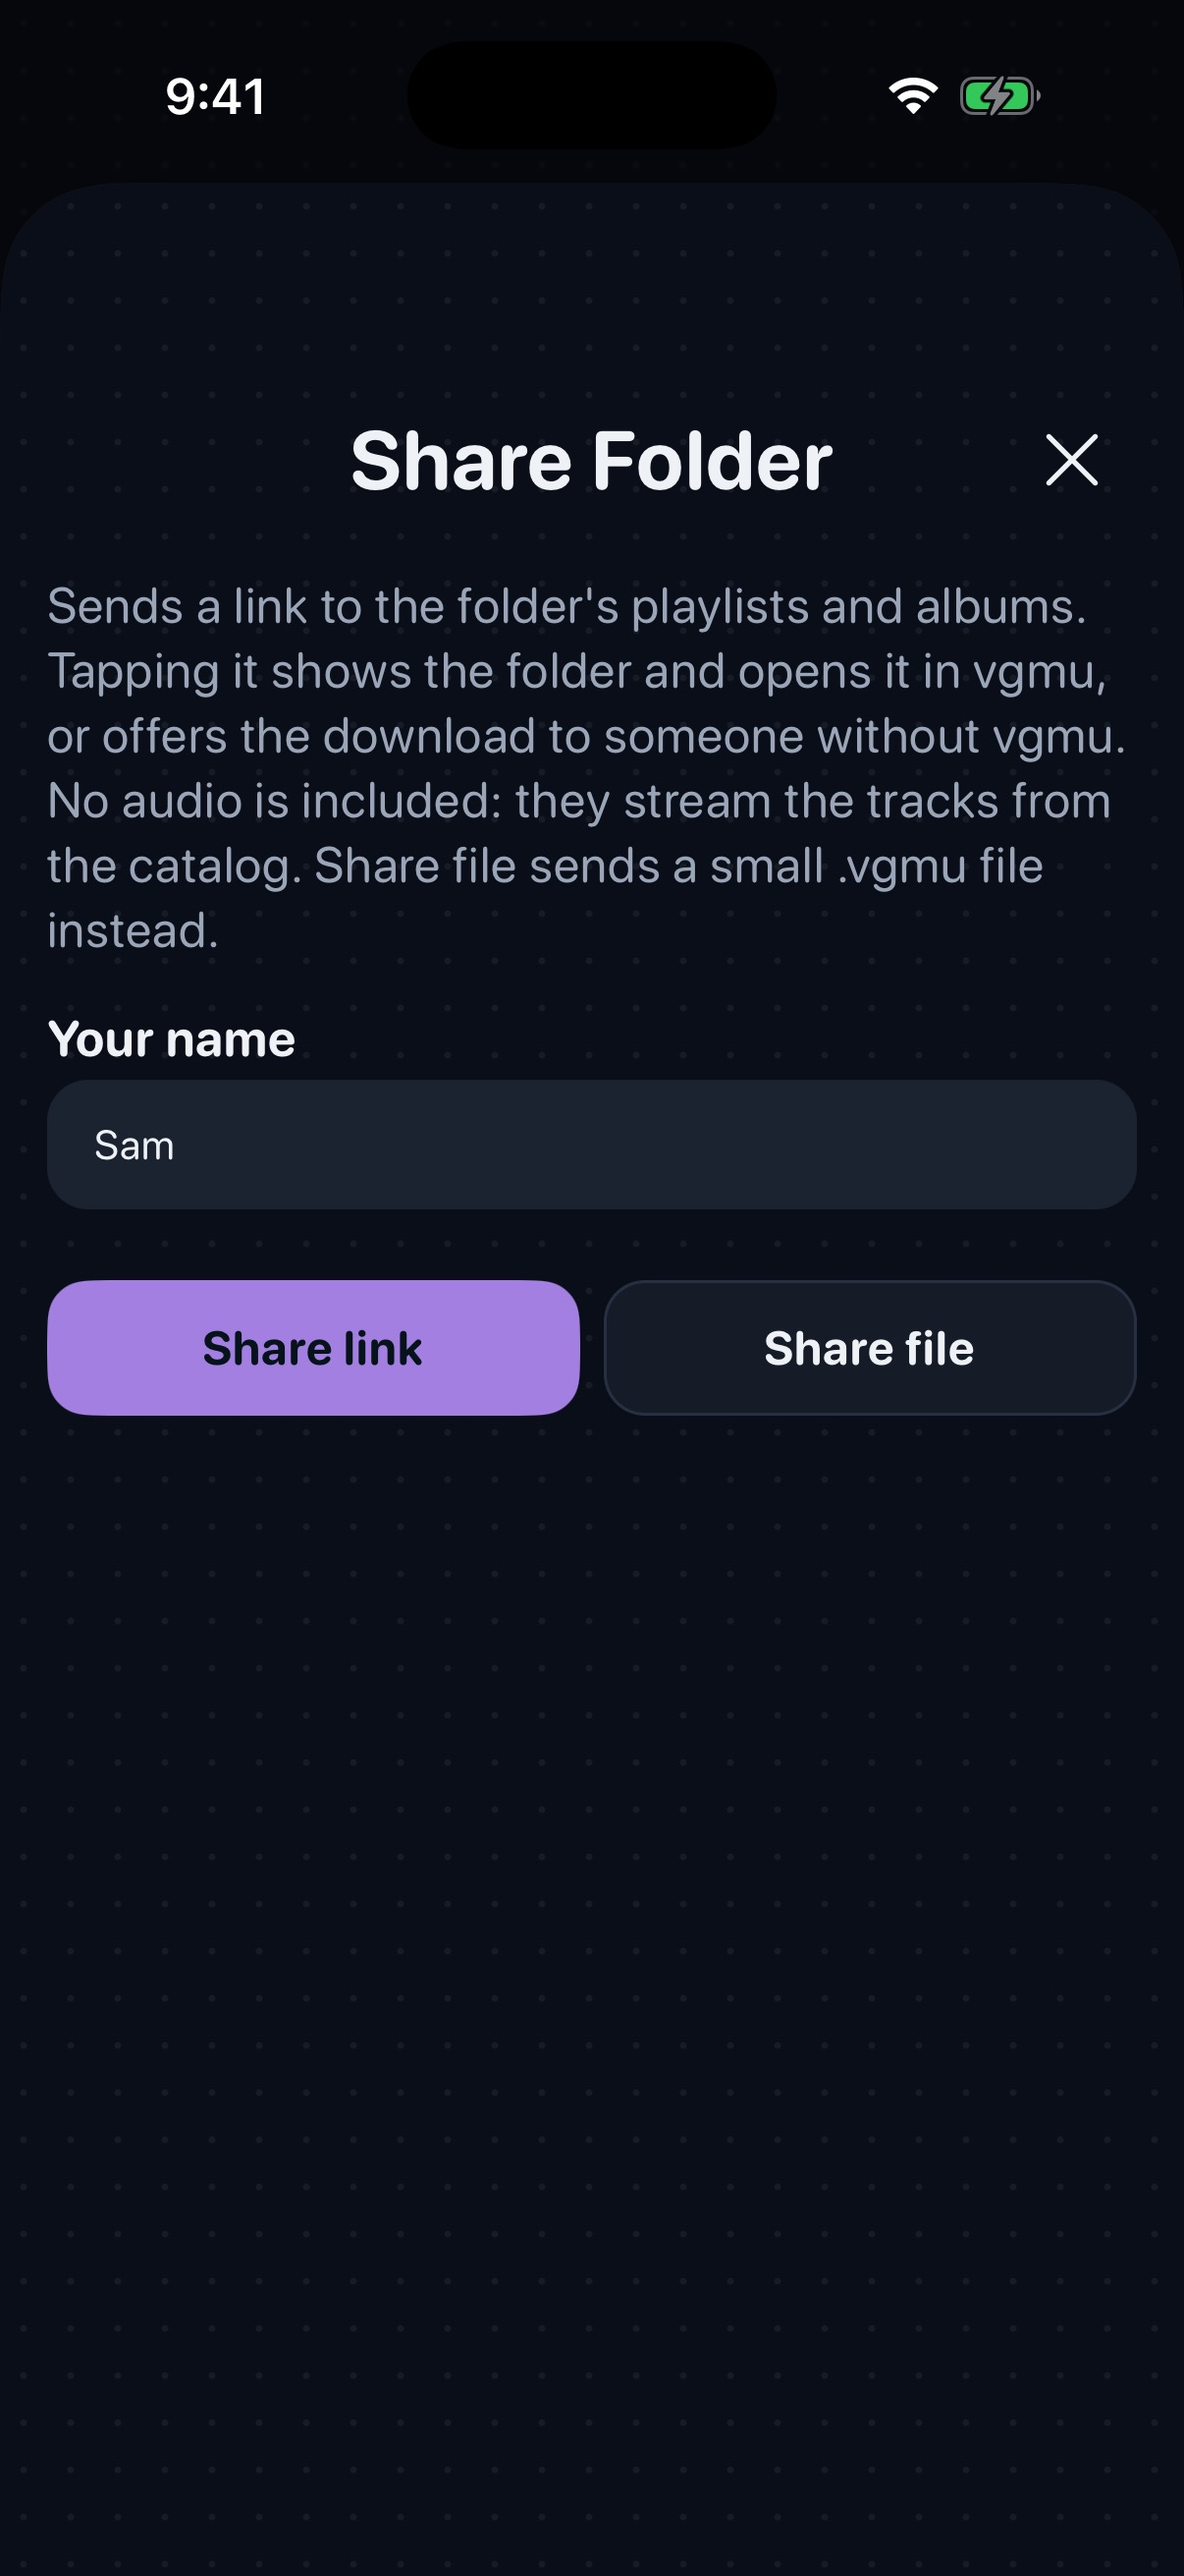
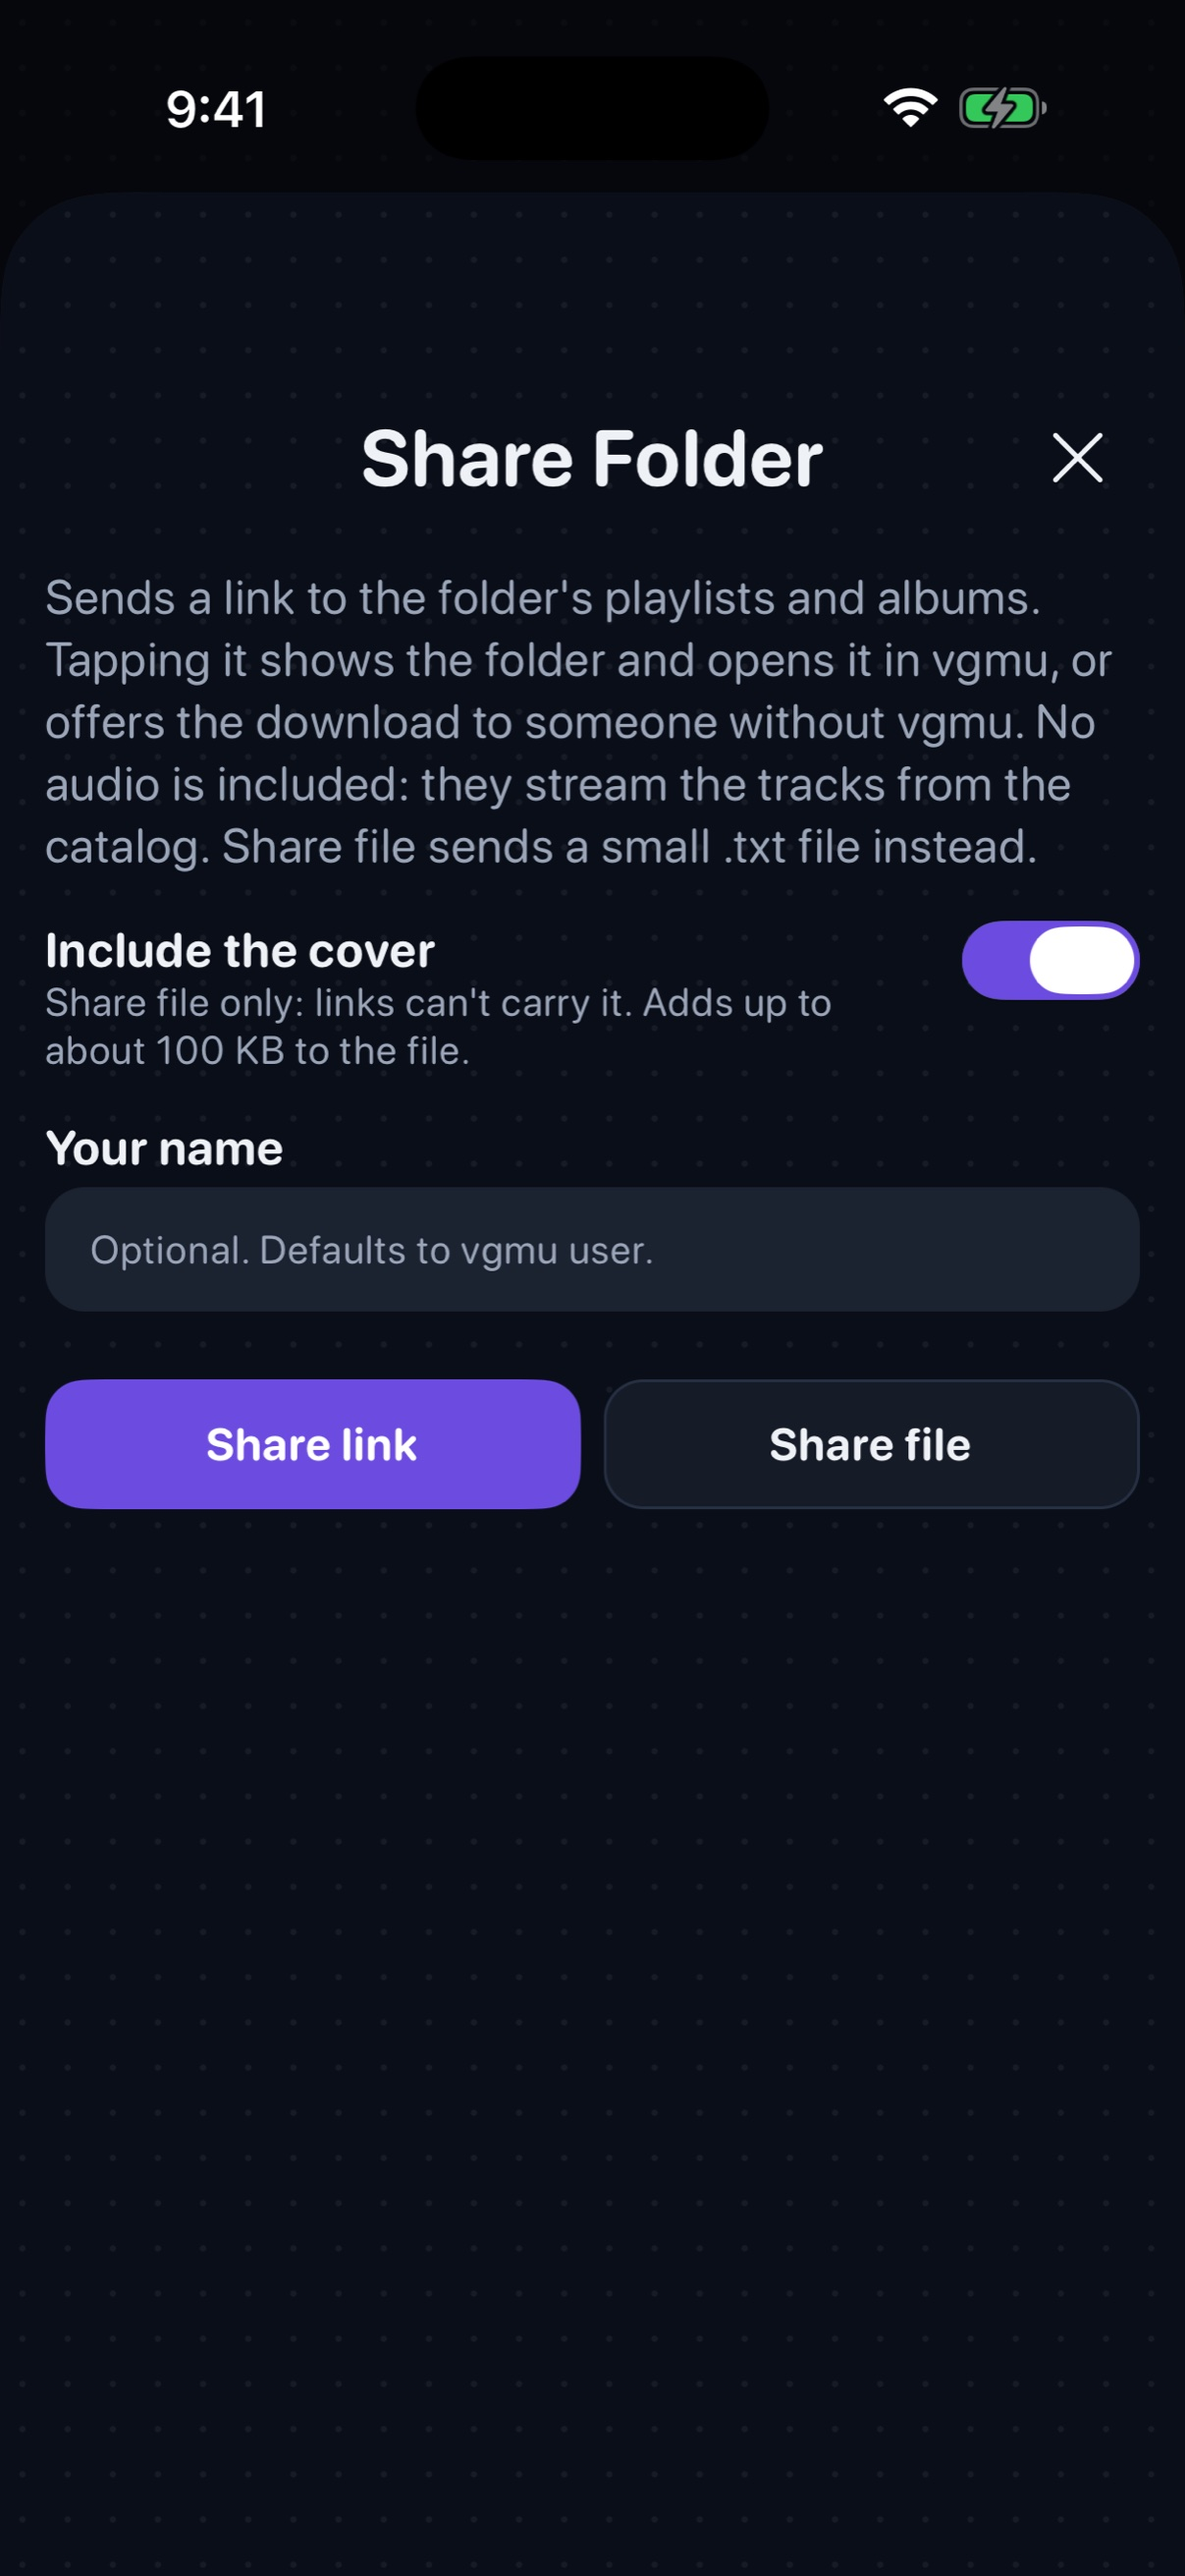
docs: refresh the gallery for v1.5.0
- Retake the share sheets for .txt files and Settings Storage in current screens
- Add the New in 1.5 section with full-size custom covers and completed download details

diff --git a/GALLERY.md b/GALLERY.md
@@ -2,9 +2,9 @@
 
 # vgmu Gallery
 
-A screen-by-screen tour of vgmu 1.4 in all three interfaces: <b>Console</b>, <b>PictoChat</b>, and <b>Clean</b>. The screens show a range of games, accent colors, and both light and dark appearance.
+A screen-by-screen tour of vgmu 1.5 in all three interfaces: <b>Console</b>, <b>PictoChat</b>, and <b>Clean</b>. The screens show a range of games, accent colors, and both light and dark appearance.
 
-**[Start here](#start-here) · [Console](#console--home) · [PictoChat](#pictochat--home) · [Clean](#clean--home-and-library) · [Everywhere](#everywhere--albums-and-library-tools) · [Stats](#everywhere--listening-stats) · [Sound Lab](#everywhere--sound-lab) · [Manager](#everywhere--manager-and-transfer-hub) · [Sharing](#everywhere--sharing)**
+**[Start here](#start-here) · [Console](#console--home) · [PictoChat](#pictochat--home) · [Clean](#clean--home-and-library) · [Everywhere](#everywhere--albums-and-library-tools) · [Stats](#everywhere--listening-stats) · [Sound Lab](#everywhere--sound-lab) · [Manager](#everywhere--manager-and-transfer-hub) · [Sharing](#everywhere--sharing) · [New in 1.5](#everywhere--new-in-15)**
 
 </div>
 
@@ -1010,7 +1010,7 @@ A screen-by-screen tour of vgmu 1.4 in all three interfaces: <b>Console</b>, <b>
 <table><tr>
 <td align="center" width="280">
 <img src="assets/screenshots/settings-storage-discord-rp.jpg" width="240"><br>
-<sub><b>Figure 164: Storage and Discord</b><br>Storage by type, and the optional Discord Rich Presence setting.</sub>
+<sub><b>Figure 164: Storage</b><br>Storage by type, a warning when online artwork is over its limit, and Maximum artwork storage on iPhone.</sub>
 </td>
 <td align="center" width="280">
 <img src="assets/screenshots/discord-rp-nintendo.png" width="240"><br>
@@ -1255,6 +1255,28 @@ A screen-by-screen tour of vgmu 1.4 in all three interfaces: <b>Console</b>, <b>
 <sub><b>Figure 205: Opening a link</b><br>A share link opens a page with the playlist or folder and an Open in vgmu button, or a way to get vgmu.</sub>
 </td>
 <td align="center" width="280"></td>
+<td align="center" width="280"></td>
+</tr></table>
+</div>
+
+<div align="right"><a href="#vgmu-gallery">↑ back to top</a></div>
+
+---
+
+## Everywhere · New in 1.5
+
+<div align="center"><b>New in 1.5: see custom covers full size, and look inside completed downloads.</b></div>
+
+<div align="center">
+<table><tr>
+<td align="center" width="280">
+<img src="assets/screenshots/console-custom-cover.jpg" width="240"><br>
+<sub><b>Figure 206: Custom covers, full size</b><br>Tap a custom cover to see it full size, then hold it to save it to Photos or Files.</sub>
+</td>
+<td align="center" width="280">
+<img src="assets/screenshots/console-download-details.jpg" width="240"><br>
+<sub><b>Figure 207: Inside a completed download</b><br>Tap a completed batch to see its tracks, play one, or check its format and size.</sub>
+</td>
 <td align="center" width="280"></td>
 </tr></table>
 </div>
